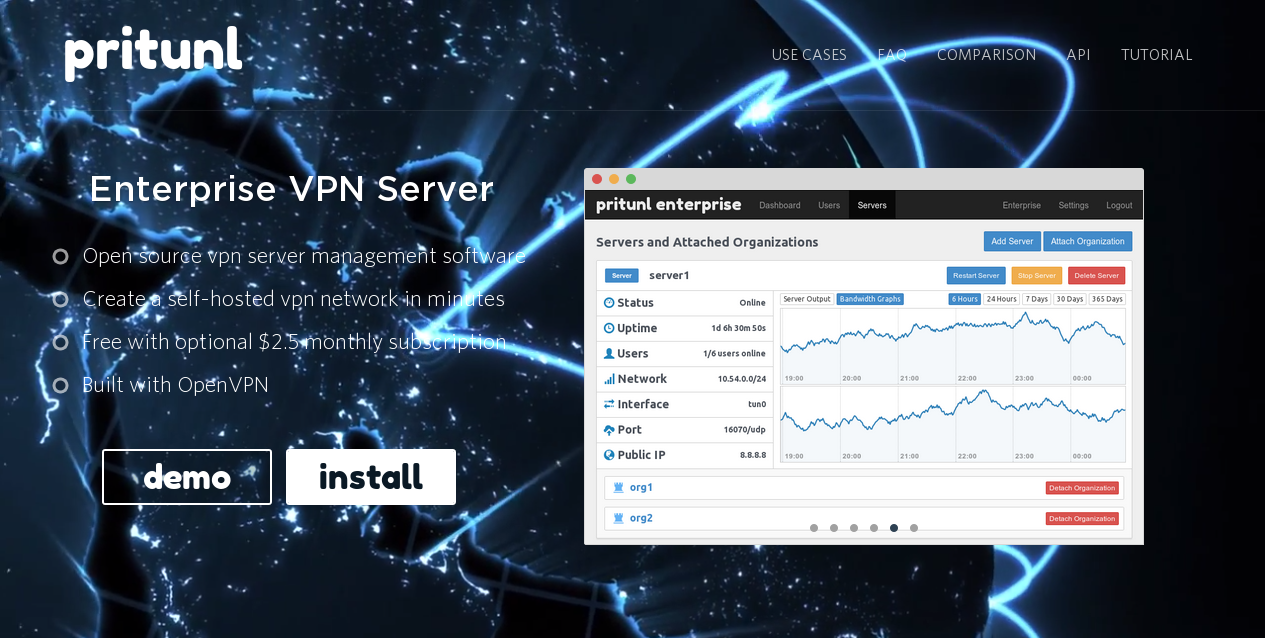
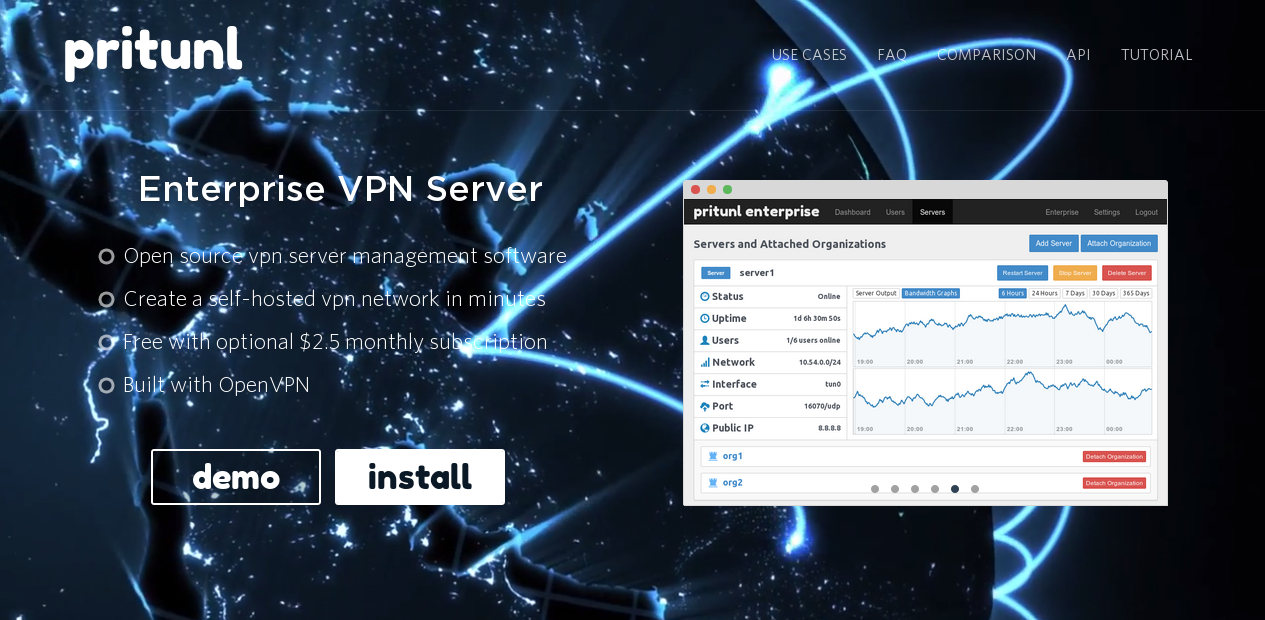
Change background imgs

diff --git a/css/main.css b/css/main.css
@@ -629,7 +629,7 @@ h2 {
   float: none;
   text-align: center;
   vertical-align: middle;
-  background: rgba(0, 0, 0, 0.6);
+  background: rgba(0, 0, 0, 0.3);
   padding: 0;
   border-top: 1px solid rgba(255, 255, 255, 0.49);
 }
@@ -691,7 +691,7 @@ h2 {
   margin-bottom: 50px;
 }
 .use-cases .item {
-  background: rgba(11, 35, 58, 0.72);
+  background: rgba(11, 35, 58, 0.3);
   -webkit-background-clip: padding-box;
   -moz-background-clip: padding;
   background-clip: padding-box;
